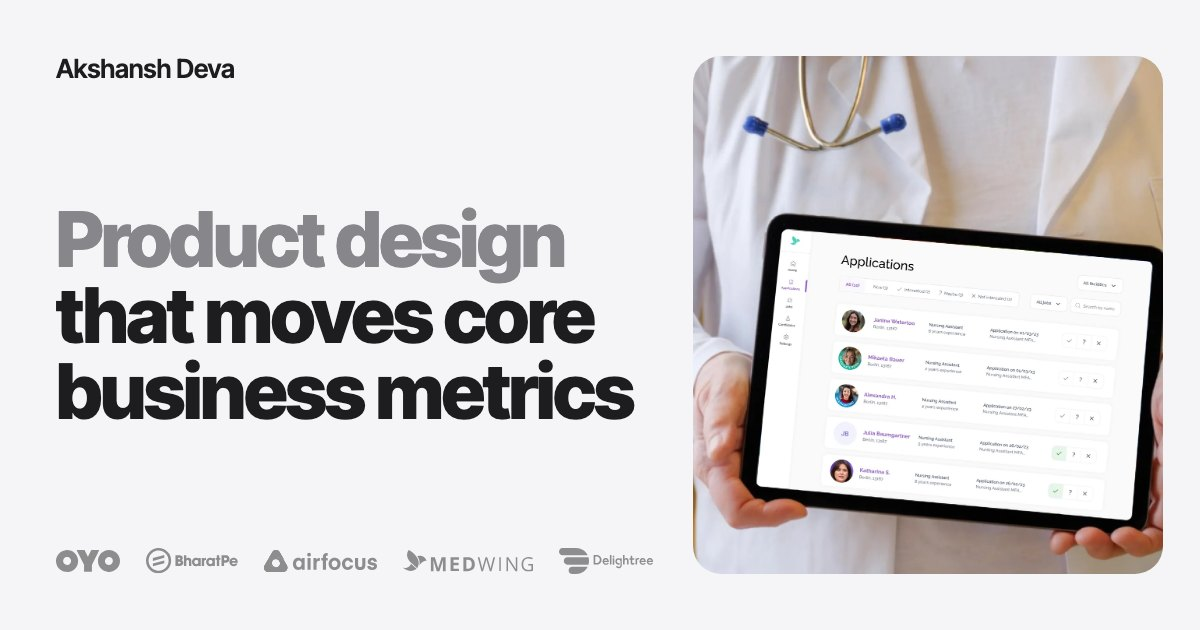
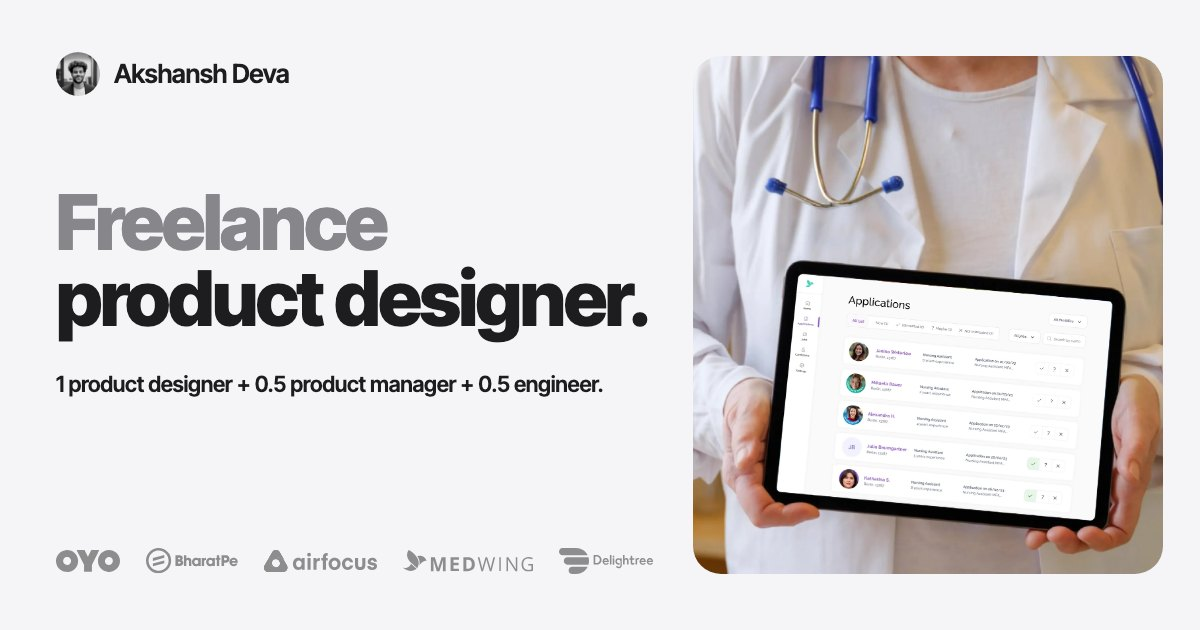
Rework the hero as a freelance intro and refresh the link preview
- Hero: avatar and small grey greeting, grey "Freelance" over ink
  "product designer." at 120px (scales to fit, each line never wraps),
  the 1 + 0.5 + 0.5 formula on its own line, then one grey sentence
- Shorter "LinkedIn" button with logo so both CTAs stay on one line
- Page title, description and Open Graph tags match the new copy
- New og.jpg with the new headline
- Remove the Writing page and its nav links for now

Changed region(s): [[0.0308, 0.0905, 0.9867, 0.9349], [0.0308, 0.0603, 0.2467, 0.1508]]

diff --git a/index.html b/index.html
@@ -3,18 +3,18 @@
 <head>
   <meta charset="UTF-8">
   <meta name="viewport" content="width=device-width, initial-scale=1.0">
-  <title>Akshansh Deva - Product designer</title>
-  <meta name="description" content="Product design that moves core business metrics. Growth design and UX of AI.">
+  <title>Akshansh Deva - Freelance product designer</title>
+  <meta name="description" content="1 product designer + 0.5 product manager + 0.5 engineer. I study data and users, design the product and build vibe-coded prototypes in your repo.">
   <link rel="canonical" href="https://akshanshdeva.netlify.app/">
   <!-- Link previews (Slack, LinkedIn, X, iMessage). The image needs an absolute URL. -->
   <meta property="og:type" content="website">
   <meta property="og:url" content="https://akshanshdeva.netlify.app/">
-  <meta property="og:title" content="Akshansh Deva - Product designer">
-  <meta property="og:description" content="Product design that moves core business metrics. Growth design and UX of AI.">
+  <meta property="og:title" content="Akshansh Deva - Freelance product designer">
+  <meta property="og:description" content="1 product designer + 0.5 product manager + 0.5 engineer. I study data and users, design the product and build vibe-coded prototypes in your repo.">
   <meta property="og:image" content="https://akshanshdeva.netlify.app/assets/og.jpg">
   <meta property="og:image:width" content="1200">
   <meta property="og:image:height" content="630">
-  <meta property="og:image:alt" content="Product design that moves core business metrics, Akshansh Deva">
+  <meta property="og:image:alt" content="Akshansh Deva, freelance product designer: 1 product designer + 0.5 product manager + 0.5 engineer">
   <meta name="twitter:card" content="summary_large_image">
   <meta name="twitter:site" content="@akshansh_deva">
   <link rel="preconnect" href="https://fonts.googleapis.com">
@@ -28,7 +28,6 @@
     <a href="/" class="s-name">Akshansh Deva</a>
     <div class="s-links">
       <a href="#work">Work</a>
-      <a href="writing/">Writing</a>
       <a href="#about">About</a>
     </div>
     <button class="s-btn s-btn-primary s-nav-copy" data-copy-email>
@@ -52,7 +51,6 @@
     <div class="s-sheet-handle" aria-hidden="true"></div>
     <nav class="s-sheet-links" aria-label="Main">
       <a href="#work">Work</a>
-      <a href="writing/">Writing</a>
       <a href="#about">About</a>
     </nav>
     <button class="s-btn s-btn-primary s-sheet-cta" data-copy-email>
@@ -66,14 +64,20 @@
 
   <main>
     <section class="s-hero wrap">
-      <h1 class="s-h1"><span class="g">Product design</span> <span>that moves core business metrics</span></h1>
+      <h1 class="s-h1">
+        <span class="s-greet"><img class="s-avatar" src="assets/photo.jpg" alt="" width="800" height="800">Hi, I&rsquo;m Akshansh,</span>
+        <span class="s-h1-main"><span class="g">Freelance</span> <span>product designer.</span></span>
+      </h1>
+      <p class="s-hero-sum">1&nbsp;product&nbsp;designer + 0.5&nbsp;product&nbsp;manager + 0.5&nbsp;engineer.</p>
+      <p class="s-hero-sub">I&nbsp;study data and users, design the product and build vibe&#8209;coded prototypes in your&nbsp;repo.</p>
       <div class="s-hero-row">
         <div class="s-ctas">
           <button class="s-btn s-btn-primary" data-copy-email>
             <span class="s-copy-icon" aria-hidden="true"><svg class="idle" viewBox="0 0 24 24" fill="none" stroke="currentColor" stroke-width="2" stroke-linecap="round" stroke-linejoin="round"><rect width="20" height="16" x="2" y="4" rx="2"/><path d="m22 7-8.97 5.7a1.94 1.94 0 0 1-2.06 0L2 7"/></svg><svg class="done" viewBox="0 0 24 24" fill="none" stroke="currentColor" stroke-width="2.4" stroke-linecap="round" stroke-linejoin="round"><path d="m5 12 5 5 9-10"/></svg></span>
             <span class="s-copy-label" aria-live="polite"><span class="idle">Copy email</span><span class="done" aria-hidden="true">Copied</span></span>
           </button>
-          <a href="https://www.linkedin.com/in/akshansh-deva/" class="s-btn s-btn-secondary" target="_blank" rel="noopener">Message on LinkedIn</a>
+          <a href="https://www.linkedin.com/in/akshansh-deva/" class="s-btn s-btn-secondary" target="_blank" rel="noopener">
+            <svg viewBox="0 0 24 24" fill="currentColor" aria-hidden="true"><path d="M20.45 20.45h-3.56v-5.57c0-1.33-.02-3.04-1.85-3.04-1.85 0-2.13 1.45-2.13 2.94v5.67H9.35V9h3.41v1.56h.05c.48-.9 1.64-1.85 3.37-1.85 3.6 0 4.27 2.37 4.27 5.46v6.28zM5.34 7.43a2.06 2.06 0 1 1 0-4.13 2.06 2.06 0 0 1 0 4.13zm1.78 13.02H3.56V9h3.56v11.45zM22.22 0H1.77C.79 0 0 .77 0 1.73v20.54C0 23.23.79 24 1.77 24h20.45c.98 0 1.78-.77 1.78-1.73V1.73C24 .77 23.2 0 22.22 0z"/></svg>LinkedIn</a>
         </div>
         <ul class="s-logos" aria-label="Previously at">
           <li><img src="assets/logos/oyo.svg" alt="OYO"></li>

diff --git a/style.css b/style.css
@@ -105,24 +105,42 @@ button { font: inherit; color: inherit; cursor: pointer; }
 .s-foot-email .s-copy-icon svg { width: 18px; height: 18px; }
 
 /* ---------- Hero ---------- */
-.s-hero { padding-block: clamp(64px, 6vw, 88px) 32px; }
+.s-hero { padding-block: clamp(56px, 6vw, 88px) 32px; }
 /* Tighter gap into the first section, so its heading shows in the first screen on a laptop. */
 .s-hero + section > .s-h2 { padding-top: clamp(40px, 4.5vw, 64px); }
-.s-h1 {
-  /* Same weight and scale as the live homepage's hero, set in Inter so the page keeps one family.
-     The grey line is sized to fit on one line; the ink part breaks into two. */
-  font: 800 120px/1 var(--display);
+/* Reading order: who (avatar + greeting), what (headline), the formula, then how. */
+.s-greet {
+  display: flex; align-items: center; gap: 14px;
+  color: var(--grey);
+  font: 600 clamp(18px, 2vw, 28px)/1.15 var(--display);
+  letter-spacing: -0.02em;
+}
+.s-avatar {
+  width: clamp(40px, 3.6vw, 52px); height: auto; aspect-ratio: 1;
+  border-radius: 50%; object-fit: cover; object-position: 50% 30%;
+  filter: grayscale(1);
+}
+/* Two lines at the original hero scale: grey "Freelance" over ink "product designer.".
+   The longer line is about 7.8x its font size wide, so below 120px the size follows the
+   content width (viewport minus both gutters) and neither line ever wraps. */
+.s-h1-main {
+  display: block; margin-top: 20px;
+  font: 800 min(120px, calc((100vw - 2 * var(--gutter)) / 8.1))/1 var(--display);
   letter-spacing: -0.031em;
 }
-.s-h1 span { display: block; text-wrap: balance; }
-.s-h1 .g { color: var(--grey); }
-@media (max-width: 1024px) { .s-h1 { font-size: 72px; } }
-@media (max-width: 640px)  { .s-h1 { font-size: min(46px, 10.4vw); line-height: 1.04; } }
+.s-h1-main > span { display: block; white-space: nowrap; }
+.s-h1-main .g { color: var(--grey); }
+.s-hero-sum {
+  margin-top: clamp(24px, 2.6vw, 36px);
+  font: 600 clamp(20px, 1.9vw, 26px)/1.3 var(--display);
+  letter-spacing: -0.015em;
+}
+.s-hero-sub { margin-top: 10px; color: var(--muted); font-size: clamp(17px, 1.4vw, 19px); line-height: 1.55; max-width: 44ch; text-wrap: pretty; }
 .s-h2 span { display: block; text-wrap: balance; }
 .s-h2 .g { color: var(--grey); }
 .s-hero-row {
   display: flex; flex-wrap: wrap; align-items: center; justify-content: space-between;
-  gap: 24px 40px; margin-top: clamp(32px, 4vw, 48px);
+  gap: 24px 40px; margin-top: clamp(32px, 3.6vw, 44px);
 }
 .s-ctas { display: flex; flex-wrap: wrap; gap: 10px; }
 .s-logos { display: flex; flex-wrap: wrap; align-items: center; gap: 18px 30px; list-style: none; padding: 0; }
